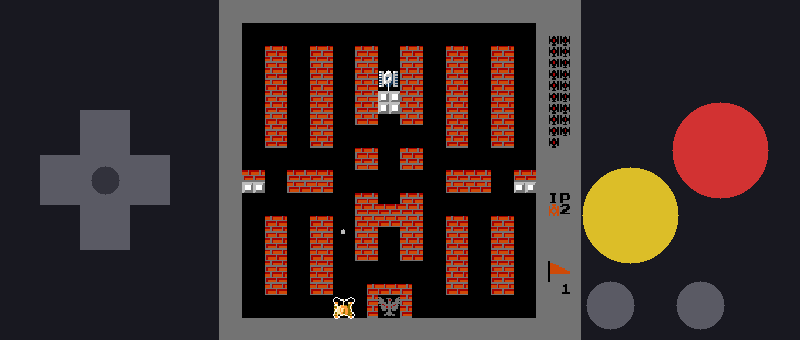
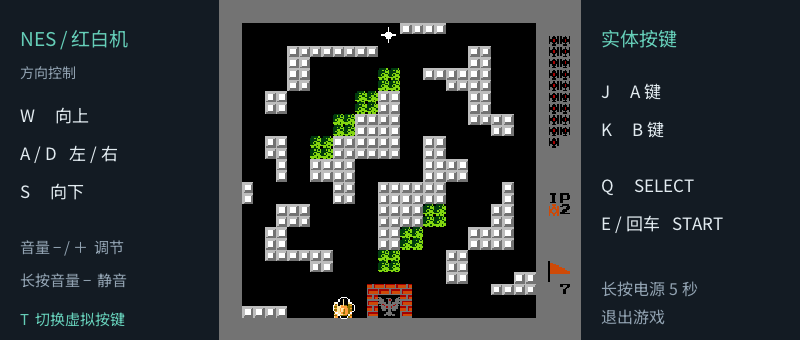
Document NES 0.2.2 device validation and refresh gameplay screenshot

diff --git a/docs/screenshots/README.md b/docs/screenshots/README.md
@@ -80,6 +80,6 @@
 
 2026-10-07 更新 `piano.png`：C1 Max 运行《致爱丽丝》主题简编的实际 framebuffer，显示自动演奏高亮与后台开关。测试保持系统静音。
 
-## NES 0.2.1（2026-10-10）
+## NES 0.2.2（2026-10-10）
 
-`nes.png` 为正式部署版从首页选择用户 NAS 中的《坦克大战》后运行第一关的 framebuffer。只转换 BGRA 并旋转为 800×340 PNG，没有重绘、拼接；截图时保持系统静音。ROM 不在仓库或更新包中。
+`nes.png` 为 C1 Max 实际运行用户 NAS 中的《坦克大战》第一关的 framebuffer，左右显示实体按键提示。本次运行由 NES 0.2.2 生产目标文件加只读 PCM 统计包装器链接，使用隔离 QA 菜单，用于核对音频恢复；渲染和游戏核心与正式版本一致。只转换 BGRA 并旋转为 800×340 PNG，没有重绘、拼接。ROM 和测试包装器均不在仓库或更新包中。

diff --git a/VALIDATION.md b/VALIDATION.md
@@ -1,6 +1,6 @@
 # 2026-10-10：游戏唤醒与 NES 操作提示
 
-Launcher 0.3.1 / NES 0.2.2 已完成代码、主机回归和 MIPS 构建；设备连接中断，尚未部署本轮修复。范围与待测项见 [验证记录](docs/2026-10-10-game-resume-qa.md)。
+Launcher 0.3.1 / NES 0.2.2 已正式部署并逐文件校验。真机《坦克大战》默认实体按键提示、T 切换触摸按钮通过，用户确认声音和速度正常；8 秒息屏阈值下无输入运行 30 秒保持亮屏，受控挂起后 PCM 自动重建，恢复后约 180 秒音频节奏稳定、无欠载。退出测试时 ADB 再次断开，退出后的锁释放和正常菜单恢复仍待确认。范围、测量方式与限制见 [验证记录](docs/2026-10-10-game-resume-qa.md)。
 
 ---
 
